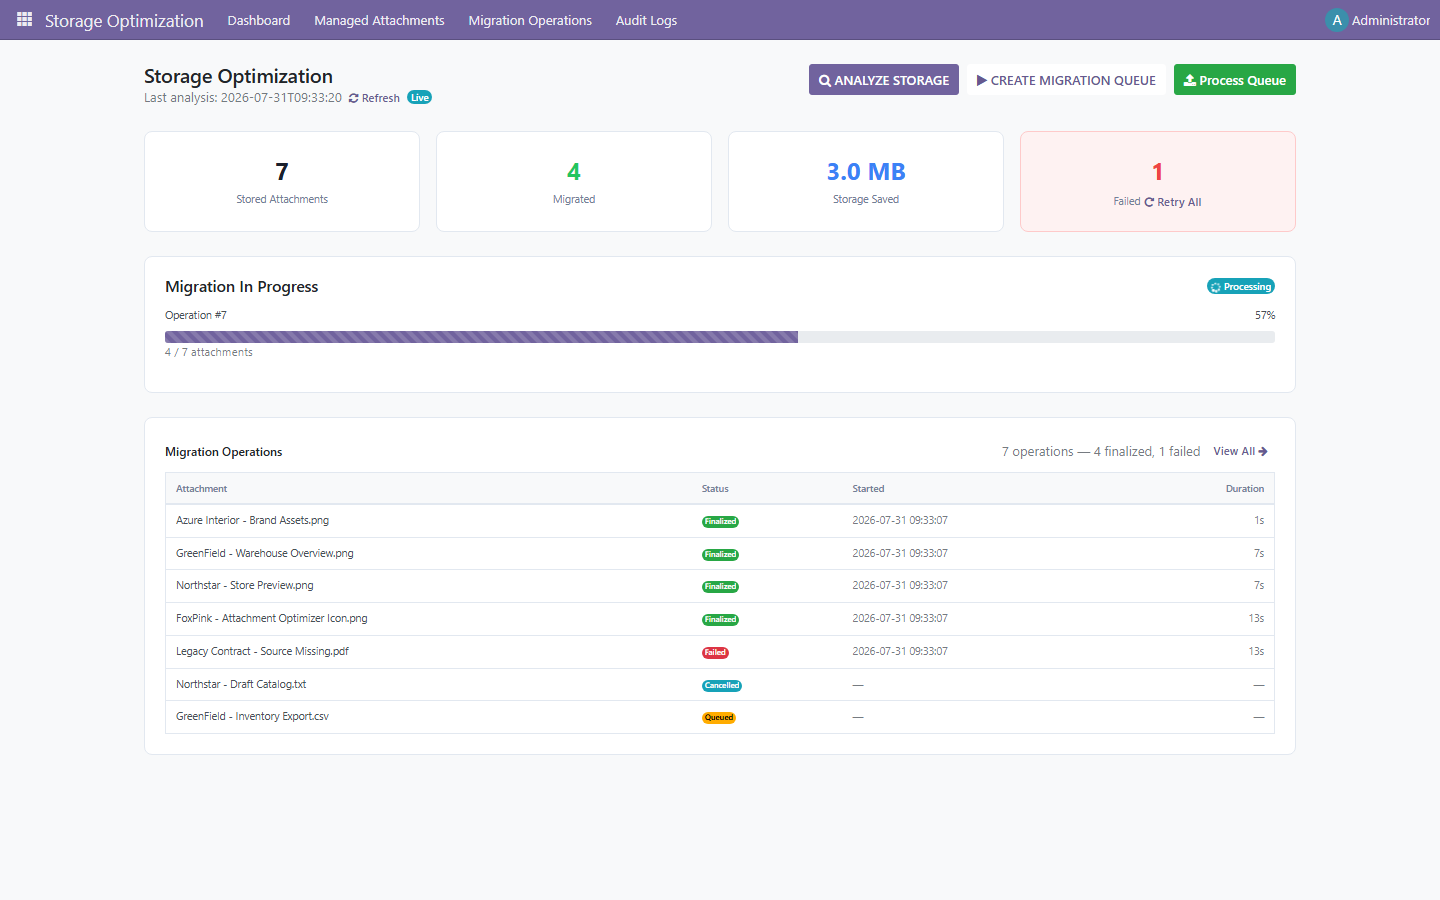
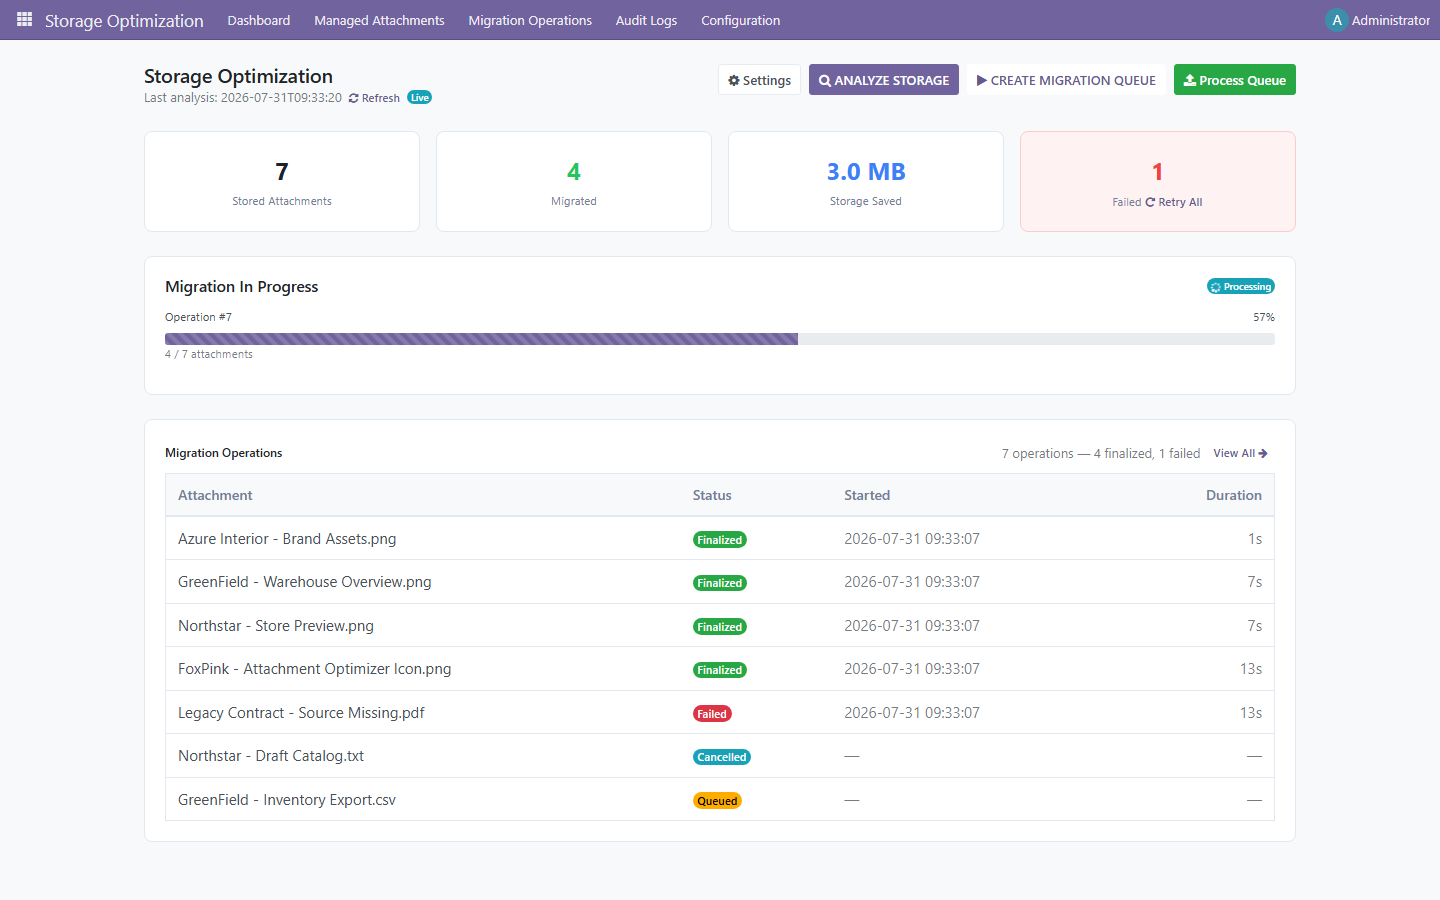
[16.0] Improve dashboard readability and settings access

diff --git a/attachment_optimizer/static/src/components/dashboard/dashboard.scss b/attachment_optimizer/static/src/components/dashboard/dashboard.scss
@@ -97,7 +97,7 @@ html .o_web_client > .o_action_manager {
 }
 
 .o_kpi_label {
-    font-size: 0.875rem;
+    font-size: 0.95rem;
     color: #718096;
     display: flex;
     align-items: center;
@@ -154,7 +154,7 @@ html .o_web_client > .o_action_manager {
     display: flex;
     justify-content: space-between;
     margin-bottom: 8px;
-    font-size: 0.875rem;
+    font-size: 0.95rem;
 }
 
 /* Recent Activity */
@@ -198,17 +198,17 @@ html .o_web_client > .o_action_manager {
     border-radius: 6px;
 
     th {
-        font-size: 0.8rem;
+        font-size: 14px;
         font-weight: 600;
         color: #718096;
         background: #f8f9fa;
         border-bottom: 2px solid #e2e8f0;
-        padding: 8px 10px;
+        padding: 10px 12px;
     }
 
     td {
-        padding: 8px 10px;
-        font-size: 0.875rem;
+        padding: 10px 12px;
+        font-size: 15px;
         vertical-align: middle;
     }
 }

diff --git a/attachment_optimizer/static/src/components/dashboard/dashboard.js b/attachment_optimizer/static/src/components/dashboard/dashboard.js
@@ -238,7 +238,8 @@ export class StorageDashboard extends Component {
                 res_model: "attachment.migration.queue.confirm",
                 views: [[false, "form"]],
                 view_mode: "form",
-                target: "new",
+                target: "current",
+            context: { module: "attachment_optimizer" },
                 context: {
                     default_count: impact.count,
                     default_total_size: impact.total_size,
@@ -325,7 +326,8 @@ export class StorageDashboard extends Component {
             res_model: "res.config.settings",
             view_mode: "form",
             views: [[false, "form"]],
-            target: "new",
+            target: "current",
+            context: { module: "attachment_optimizer" },
         }, {
             onClose: () => this._loadDashboard(),
         });
